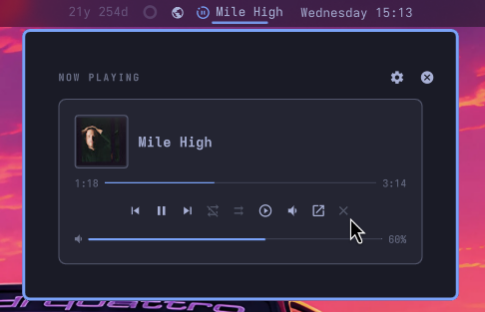
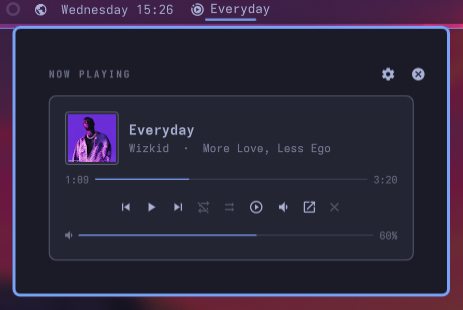
update preview images

diff --git a/Panel.qml b/Panel.qml
@@ -544,6 +544,15 @@ Panel {
                   font.bold: true
                   elide: Text.ElideRight
                 }
+                Text {
+                  width: parent.width
+                  visible: text !== ""
+                  text: root.nowPlayingMeta(modelData)
+                  color: Qt.darker(root.contentForeground, 1.45)
+                  font.family: root.contentFontFamily
+                  font.pixelSize: Style.font.bodySmall
+                  elide: Text.ElideRight
+                }
               }
             }
 
